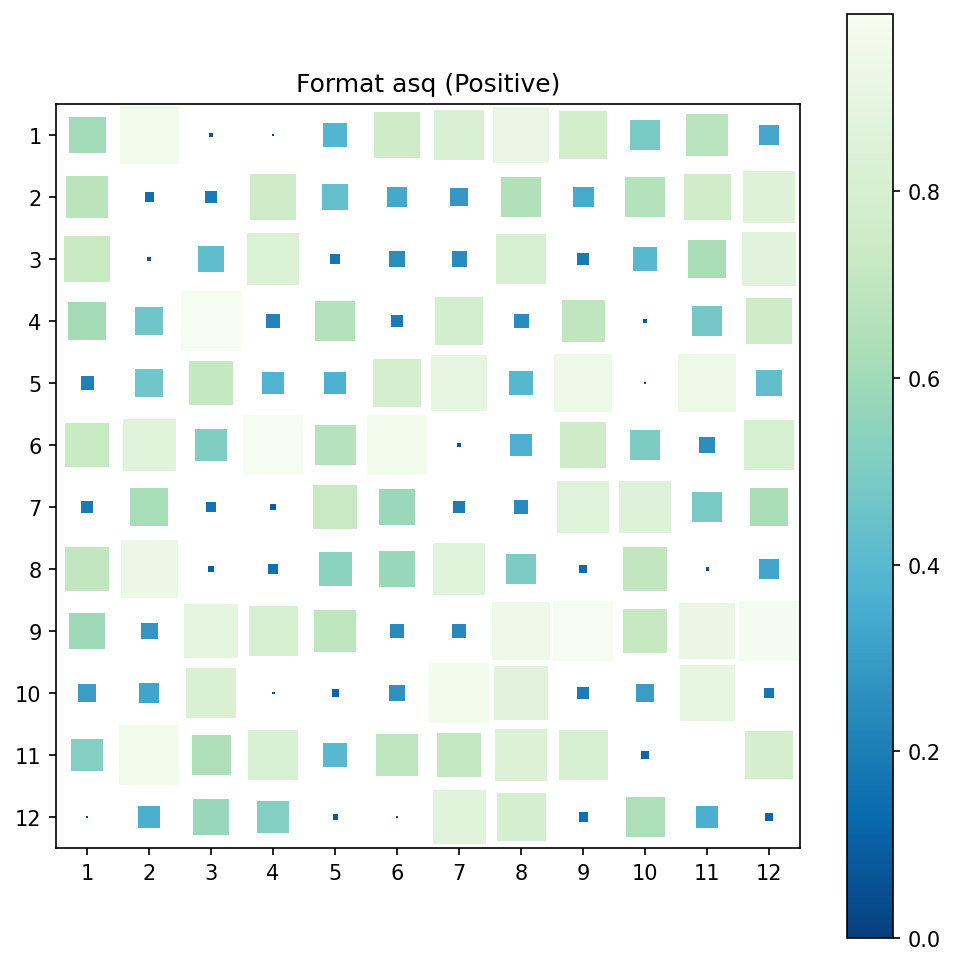
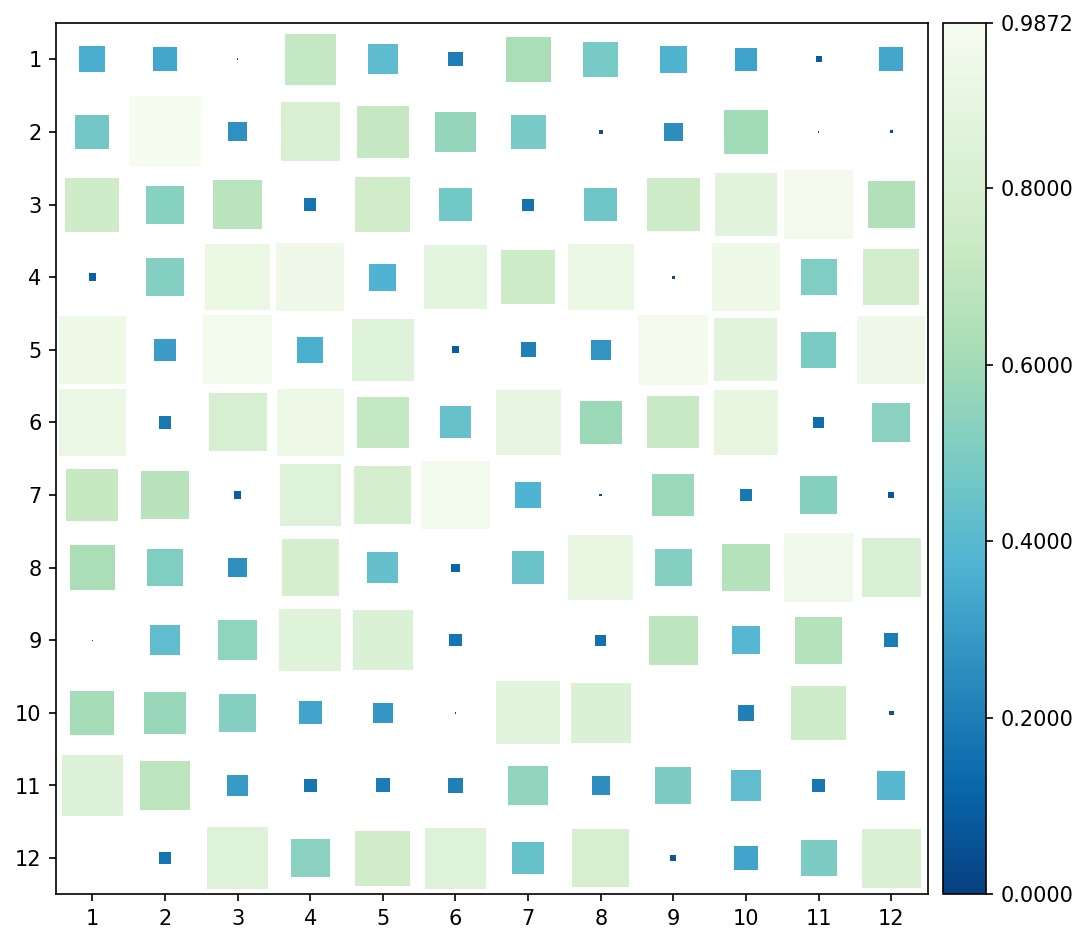
Enhance colorbar: auto-mark extremes (vmin/vmax) by default

diff --git a/tests/test_gallery.py b/tests/test_gallery.py
@@ -17,7 +17,7 @@ def test_basic_positive():
     data = np.random.rand(15, 15)
     shm = SHeatmap(data, fmt='sq')
     shm.draw()
-    plt.title('Basic Positive')
+    # plt.title('Basic Positive')
     output_path = os.path.join(GALLERY_DIR, 'Basic_positive.png')
     plt.savefig(output_path, bbox_inches='tight', dpi=150)
     plt.close()
@@ -28,7 +28,7 @@ def test_basic_negative():
     data = np.random.rand(15, 15) - 0.5
     shm = SHeatmap(data, fmt='sq')
     shm.draw()
-    plt.title('Basic Negative')
+    # plt.title('Basic Negative')
     output_path = os.path.join(GALLERY_DIR, 'Basic_negative.png')
     plt.savefig(output_path, bbox_inches='tight', dpi=150)
     plt.close()
@@ -44,7 +44,7 @@ def test_formats(fmt):
     plt.figure()
     shm = SHeatmap(data_a, fmt=fmt)
     shm.draw()
-    plt.title(f'Format {fmt} (Positive)')
+    # plt.title(f'Format {fmt} (Positive)')
     path_a = os.path.join(GALLERY_DIR, f'Format_{fmt}_A.png')
     plt.savefig(path_a, bbox_inches='tight', dpi=150)
     plt.close()
@@ -54,7 +54,7 @@ def test_formats(fmt):
     plt.figure()
     shm = SHeatmap(data_b, fmt=fmt)
     shm.draw()
-    plt.title(f'Format {fmt} (Mixed)')
+    # plt.title(f'Format {fmt} (Mixed)')
     path_b = os.path.join(GALLERY_DIR, f'Format_{fmt}_B.png')
     plt.savefig(path_b, bbox_inches='tight', dpi=150)
     plt.close()
@@ -71,7 +71,7 @@ def test_text_nan():
     shm = SHeatmap(data, fmt='sq')
     shm.draw()
     shm.set_text(fontsize=8, color='black') 
-    plt.title('Basic with Text and NaN')
+    # plt.title('Basic with Text and NaN')
     output_path = os.path.join(GALLERY_DIR, 'Basic_with_text.png')
     plt.savefig(output_path, bbox_inches='tight', dpi=150)
     plt.close()
@@ -87,7 +87,7 @@ def test_triangle_layouts(layout_type):
     shm.set_type(layout_type)
     shm.draw()
     shm.set_text(fontsize=6, color='black')
-    plt.title(f'Triangular: {layout_type}')
+    # plt.title(f'Triangular: {layout_type}')
     output_path = os.path.join(GALLERY_DIR, f'Type_{layout_type}.png')
     plt.savefig(output_path, bbox_inches='tight', dpi=150)
     plt.close()

diff --git a/demo_basic.py b/demo_basic.py
@@ -13,7 +13,7 @@ def demo_basic_positive():
     data = np.random.rand(15, 15)
     shm = SHeatmap(data, fmt='sq')
     shm.draw()
-    plt.title('Basic Positive')
+    # plt.title('Basic Positive')
     plt.savefig('gallery/Basic_positive.png', bbox_inches='tight', dpi=150)
     plt.close()
 
@@ -23,7 +23,7 @@ def demo_basic_negative():
     data = np.random.rand(15, 15) - 0.5
     shm = SHeatmap(data, fmt='sq')
     shm.draw()
-    plt.title('Basic Negative')
+    # plt.title('Basic Negative')
     plt.savefig('gallery/Basic_negative.png', bbox_inches='tight', dpi=150)
     plt.close()
 
@@ -40,7 +40,7 @@ def demo_formats():
         plt.figure()
         shm = SHeatmap(data_a, fmt=fmt)
         shm.draw()
-        plt.title(f'Format {fmt} (Positive)')
+        # plt.title(f'Format {fmt} (Positive)')
         plt.savefig(f'gallery/Format_{fmt}_A.png', bbox_inches='tight', dpi=150)
         plt.close()
         
@@ -48,7 +48,7 @@ def demo_formats():
         plt.figure()
         shm = SHeatmap(data_b, fmt=fmt)
         shm.draw()
-        plt.title(f'Format {fmt} (Mixed)')
+        # plt.title(f'Format {fmt} (Mixed)')
         plt.savefig(f'gallery/Format_{fmt}_B.png', bbox_inches='tight', dpi=150)
         plt.close()
 
@@ -64,7 +64,7 @@ def demo_text_nan():
     shm = SHeatmap(data, fmt='sq')
     shm.draw()
     shm.set_text(fontsize=8, color='black') # Simple black text
-    plt.title('Basic with Text and NaN')
+    # plt.title('Basic with Text and NaN')
     plt.savefig('gallery/Basic_with_text.png', bbox_inches='tight', dpi=150)
     plt.close()
 
@@ -80,7 +80,7 @@ def demo_triangle():
         shm.set_type(t)
         shm.draw()
         shm.set_text(fontsize=6, color='black')
-        plt.title(f'Triangular: {t}')
+        # plt.title(f'Triangular: {t}')
         plt.savefig(f'gallery/Type_{t}.png', bbox_inches='tight', dpi=150)
         plt.close()
 

diff --git a/src/special_heatmap/heatmap.py b/src/special_heatmap/heatmap.py
@@ -73,7 +73,7 @@ class SHeatmap:
         """
         self.type = type_str
 
-    def draw(self):
+    def draw(self, colorbar=True, colorbar_loc='right', colorbar_size="5%", colorbar_pad=0.1, mark_extremes=True):
         if self.ax is None:
             fig, self.ax = plt.subplots(figsize=(8, 8))
         
@@ -211,9 +211,35 @@ class SHeatmap:
 
 
         # Colorbar
-        sm = plt.cm.ScalarMappable(cmap=self.cmap, norm=norm)
-        sm.set_array([])
-        plt.colorbar(sm, ax=self.ax)
+        if colorbar:
+            from mpl_toolkits.axes_grid1 import make_axes_locatable
+            divider = make_axes_locatable(self.ax)
+            
+            if colorbar_loc in ['right', 'left']:
+                orientation = 'vertical'
+            else:
+                orientation = 'horizontal'
+            
+            cax = divider.append_axes(colorbar_loc, size=colorbar_size, pad=colorbar_pad)
+            
+            sm = plt.cm.ScalarMappable(cmap=self.cmap, norm=norm)
+            sm.set_array([])
+            cbar = plt.colorbar(sm, cax=cax, orientation=orientation)
+            
+            if mark_extremes:
+                # Add explicit ticks for vmin and vmax
+                current_ticks = cbar.get_ticks()
+                data_range = self.vmax - self.vmin
+                threshold = data_range * 0.05 # 5% threshold to merge ticks
+                
+                final_ticks = [self.vmin, self.vmax]
+                for t in current_ticks:
+                    # Keep ticks that are not too close to vmin/vmax
+                    if abs(t - self.vmin) > threshold and abs(t - self.vmax) > threshold:
+                        final_ticks.append(t)
+                
+                final_ticks = sorted(list(set(final_ticks)))
+                cbar.set_ticks(final_ticks)
         
         return self
 
